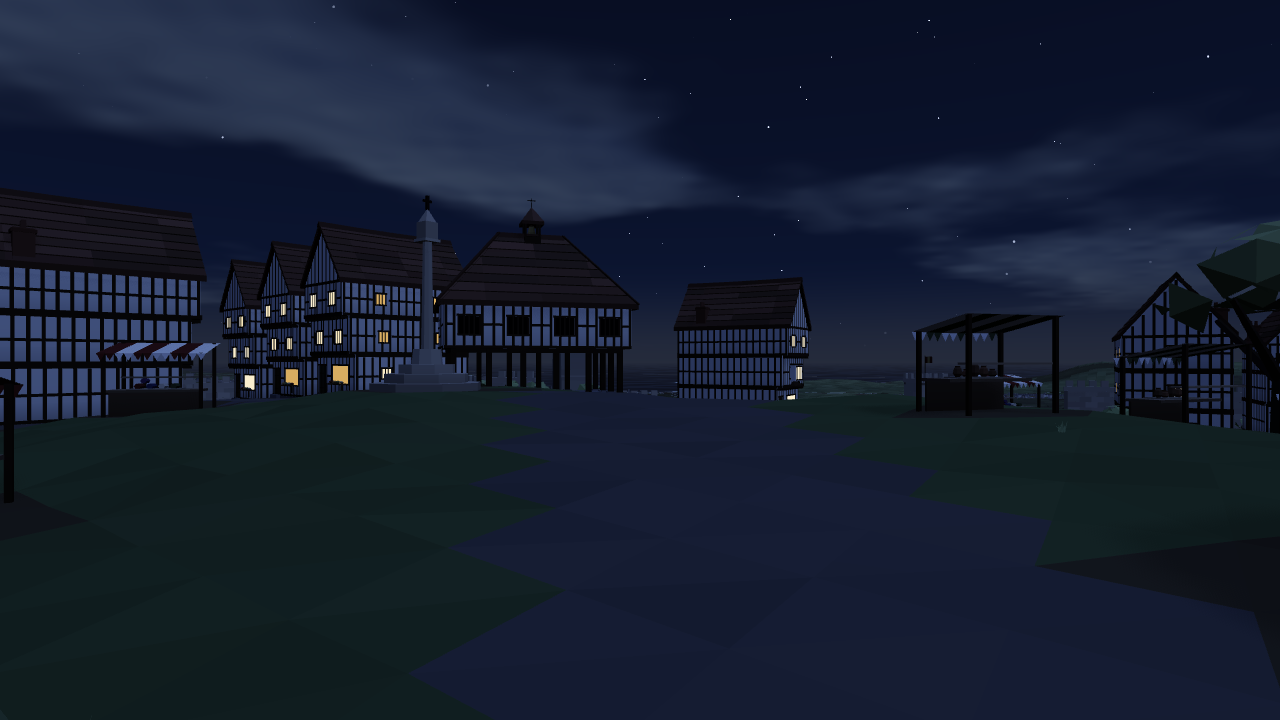
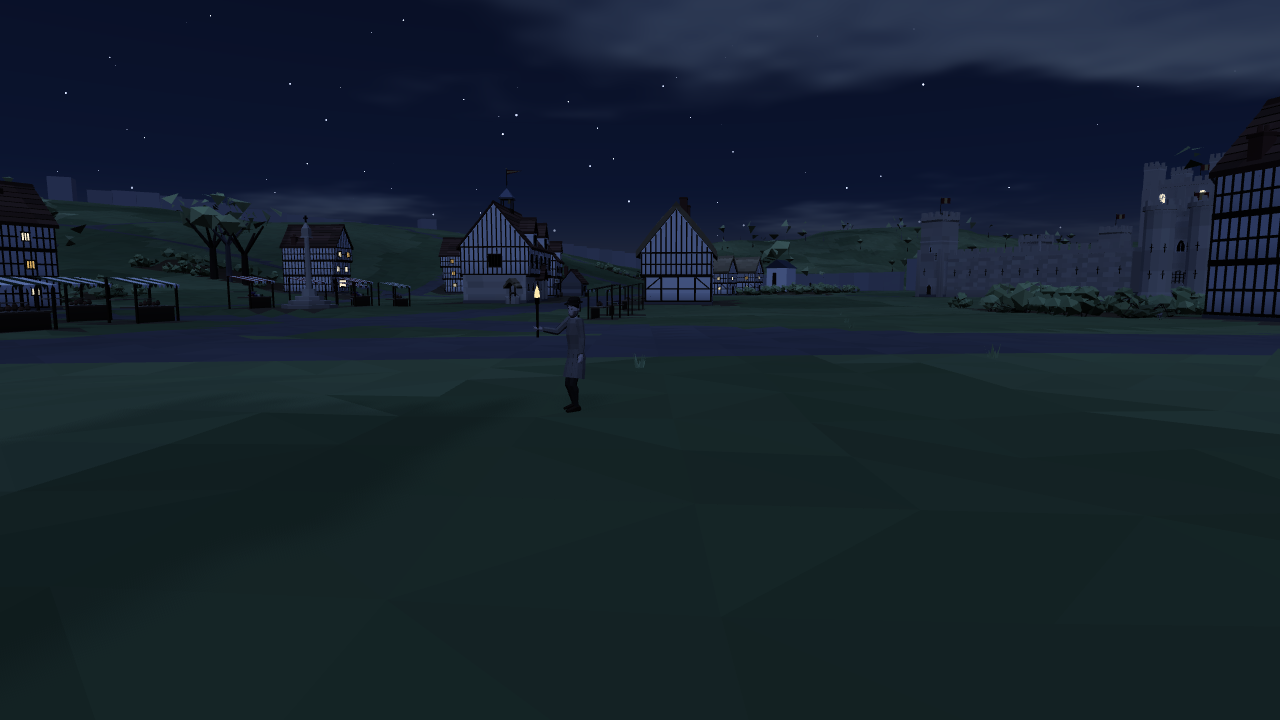
agents: docs, final scenes, town watch

diff --git a/src/agents/dev/villageViewer.ts b/src/agents/dev/villageViewer.ts
@@ -101,6 +101,24 @@ function crowdPose(c: SceneCtx, want: (a: Zone['agentsArr'][number]) => boolean,
   return null;
 }
 
+/** A camera for the biggest group of animals of a kind (seen from a clear spot 8–24 m away). */
+function animalPose(c: SceneCtx, kind: string): Pose | null {
+  const list = c.zone.animals().filter((a) => a.kind === kind);
+  if (list.length === 0) return null;
+  let cx = 0, cz = 0;
+  for (const a of list) { cx += a.x / list.length; cz += a.z / list.length; }
+  for (const d of [8, 11, 15, 6, 20]) {
+    for (let i = 0; i < 24; i++) {
+      const ang = i / 24 * Math.PI * 2;
+      const x = cx + Math.sin(ang) * d, z = cz + Math.cos(ang) * d;
+      if (c.zone.nav.walkable(x, z) && c.zone.nav.finder.lineClear(x, z, cx, cz)) {
+        return { pos: { x, y: Math.max(0, c.g(x, z)) + 1.5, z }, look: { x: cx, y: Math.max(0, c.g(cx, cz)) + 0.8, z: cz } };
+      }
+    }
+  }
+  return null;
+}
+
 export const SCENES: SceneSpec[] = [
   {
     id: 'dawn', describe: 'dawn: the village wakes and sets off to work', settlement: pickVillage, season: 0, day: 2,
@@ -183,7 +201,8 @@ export const SCENES: SceneSpec[] = [
     },
   },
   {
-    id: 'wildlife', describe: 'wildlife in a wood: deer, boar, foxes', settlement: pickVillage, season: 0, day: 1, time: 0.3, warm: 4,
+    id: 'wildlife', describe: 'wildlife in a wood: deer, boar, foxes', settlement: pickVillage, season: 1, day: 1, time: 0.3, warm: 4,
+    frame: (c) => animalPose(c, 'deer') ?? animalPose(c, 'boar') ?? animalPose(c, 'fox') ?? animalPose(c, 'hare'),
     camera: (c) => {
       const spot = c.zone.fauna.findWildlife('deer', c.s.x, c.s.z, 900) ?? { x: c.s.x + 200, z: c.s.z };
       const yaw = Math.atan2(spot.x - c.s.x, spot.z - c.s.z);

diff --git a/src/agents/schedule.ts b/src/agents/schedule.ts
@@ -464,9 +464,12 @@ export class Schedule {
   private sleep(p: Person, o: Intent, day: number, f: number, T: DayTimes, age: number, sp: SettlementPlaces | null, home: BuildingState | null): void {
     if (f >= T.bed) this.fromUntil(o, day, T.bed, 1 + T.wake); else this.fromUntil(o, day, T.wake - 1, T.wake);
     // the night watch: a quarter of the soldiers of a garrison or walled town walk the streets with a torch
-    const arms = ARMS.has(p.career) && sp && (sp.settlement.kind === 'castle' || sp.settlement.kind === 'town' || sp.settlement.kind === 'city');
+    const walled = !!sp && (sp.settlement.kind === 'castle' || sp.settlement.kind === 'town' || sp.settlement.kind === 'city');
     const watchDay = f >= T.bed ? day : day - 1;
-    if (arms && hash01(p.id, watchDay * 5 + 11) < 0.28 && age >= 16) {
+    // a share of the garrison, plus a few burgesses taking their turn (the town watch was made of citizens)
+    const watchman = walled && age >= 18 && age < 55 && p.sex === 'm' && p.estate !== 'clergy'
+      && (ARMS.has(p.career) ? hash01(p.id, watchDay * 5 + 11) < 0.4 : p.rankTier <= 3 && hash01(p.id, watchDay * 5 + 12) < 0.04);
+    if (watchman) {
       this.watch(p, o, sp!, home);
       return;
     }

diff --git a/docs/AGENTS.md b/docs/AGENTS.md
@@ -1,0 +1,62 @@
+# Agents: the living detail zone (`src/agents`)
+
+Entry point: `installAgents(sim, { economy, social }): Zone` (a `ZoneApi`). It registers the `agents.zone`
+per-step system (order 60), feeds the view sources `characters` and `animals`, chains `sim.hostileNear`
+(hostile animal within `FAST_SPEED_HOSTILE_RADIUS`) and sets the social module's `awakeHook`. Dev page:
+`?mode=village` (`src/agents/dev/villageViewer.ts`); screenshots: `node tools/village-shots.mjs` → `docs/agents/`.
+
+The zone is a pure observer: it writes nothing to the simulation state and uses no random stream (visual
+variation comes from `hash01`), so saves are unaffected (tested: state hash equal with and without it,
+and across save → load → continue).
+
+## Schedules and whereabouts (`schedule.ts`, `places.ts`)
+
+`whereabouts(person, absDay)` is a deterministic function of person, calendar day, season daylight and weather.
+The day hangs on sunrise/sunset with a per-person jitter: rise, chores at the door, work, the midday meal, work,
+evening, bed. Holy day: dress, walk to church, Mass (indoors), the churchyard, then leisure (men and youths 14–60
+at the archery butts, else a handful on the green lane; the alehouse; gossip; play; elders sit). Market day: sellers
+at the stalls, shoppers drift about the square, and about one adult in six from villages whose market town it is
+walks in (appearing at the gate, leaving at noon). Night: indoors asleep, except the watch (garrison and some
+burgesses, torch in hand) and a few revellers. Bad weather sends outdoor workers home / indoors. The sick are in bed.
+
+`economy.workSpot` wins when it returns a spot. Otherwise career defaults: farmers to their household's strips
+(serfs two days in three to the demesne), smiths/carpenters/bakers/millers/… to the door of their workshop with
+the right animation and tools, alewives to the brewhouse/alehouse, shepherds to a pasture point (their flock
+follows them), priests to the church, soldiers to gate/walls/drill, monks and nuns keep the hours, servants run
+errands for their own household, children play, fetch water, mind animals or go to the priest for lessons.
+Because the day is only 60 s, nobody walks home for dinner unless work is within ~40 m: a packed meal at the workplace.
+
+## Zone (`zone.ts`)
+
+Focus = the attached player's draw item, else `sim.view.focus()`. People outdoors per their whereabouts within
+250 m become agents (leave at 280 m), nearest first, cap 300, spawned by a time-sliced scan (≤ 1 ms). Agents spawn
+where the schedule says now, mid-walk if travelling. `resync()` runs on skip end, character switch, run start,
+leaving map/travel; no agents in `map`/`travel` mode. Summoned people/animals (`summon`, `summonAnimal`) and
+claimed horses are exempt from cap and hysteresis. Trips are walked only where they can be seen (within 80 m of the
+focus): unseen trips are finished instantly, trips into view start at the edge, trips out of view end there
+(a 60 s day cannot be walked in real time).
+
+## Navigation (`nav/`)
+
+Torus window of 256×256 cells of 2 m (512 m) built in 32 m tiles, incrementally (≤ 1.8 ms/frame, at most one cold
+scatter chunk per call) and on demand when a query needs a tile. Terrain cost bytes from `walkCostAt` (yards and
+cobbles treated as trodden), solids from building footprints (oriented boxes, diffed by geometry so the sim's hourly
+building-flag changes cost nothing), tree trunks and large rocks from scatter (minus felled). A* (weighted, 9000
+expansions max) with thick line-of-sight string pulling; exact circle-vs-box/circle sliding `move()` (large steps
+sub-stepped); bridge decks follow the renderer's deck profile; `doorOf` uses the door offsets measured from the
+building recipes. Path requests are queued, nearest-to-focus first, ≤ 1 ms/frame.
+
+## Behaviour, animals, interaction
+
+Agents follow paths with separation (lower ranks and the player's inferiors yield), queue at doors, work in bouts
+with breaks, sit, chat in facing groups, run and chase (children), shoot at the butts, kneel to lords, wave to kin,
+look at the player, greet through `social.bark` (null = silent). Livestock come from `economy.holding` else defaults
+by career; day pasture/yard, night folded away (sheep, dogs, cats stay); flocks follow shepherds, dogs follow owners.
+Wildlife per 64 m chunk (deer, boar, fox, hare; wolves at night/winter in remote woods circle at 50 m+ and are
+hostile). `interactables` scores by distance and facing; strips/parcels via point-in-polygon, trees/rocks with scatter ids.
+
+## Budgets (measured, shared 4-core machine)
+
+300 agents + 150 animals: ≈ 1.1 ms per sub-step at 1× (agents 0.5, paths 0.3, animals 0.1, scan 0.1; up to
+≈ 2.4 ms under heavy machine load), ≈ 3–5 ms/frame at 8×; path search ≈ 0.15 ms avg; nav tile ≈ 0.3 ms.
+Tests: `tests/agents/` (schedule, nav, zone, perf).
